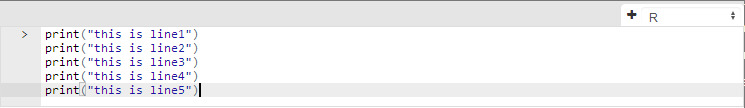
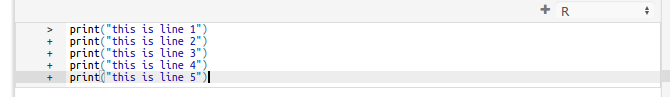
Created 1.4 GUI and whats new doc

Changed region(s): [[0.0, 0.0, 1.0, 1.0]]

diff --git a/_layouts/default.html b/_layouts/default.html
@@ -36,8 +36,11 @@
 						<li class="dropdown">
 							<a href="#" class="dropdown-toggle" data-toggle="dropdown" role="button" aria-haspopup="true" aria-expanded="false">Documentation<span class="caret"></span></a>
 							<ul class="dropdown-menu">
-								<li><a href="/rcloud/doc/1.3/whatsnew/doc.html">What's New</a></li>
-								<li><a href="/rcloud/doc/1.3/guidoc/doc.html">Current Documentation</a></li>
+								<li><a href="/rcloud/doc/1.4/whatsnew/doc.html">1.4 What's New</a></li>
+								<li><a href="/rcloud/doc/1.4/guidoc/doc.html">1.4 Current GUI Documentation</a></li>
+								<li role="separator" class="divider"></li>
+								<li><a href="/rcloud/doc/1.3/whatsnew/doc.html">1.3 What's New</a></li>
+								<li><a href="/rcloud/doc/1.3/guidoc/doc.html">1.3 GUI Documentation</a></li>
 							</ul>
 						</li>
 						<li><a target="_blank" href="http://github.com/att/rcloud">GitHub</a></li>

diff --git a/doc/1.4/guidoc/doc.md b/doc/1.4/guidoc/doc.md
@@ -7,7 +7,7 @@ layout: default
 
 # {{page.title}}
 
-Created: 2015-06-30
+Created: 2015-07-03
 
 ## Table of Contents
 
@@ -41,12 +41,14 @@ Created: 2015-06-30
         * [Versioning](#versioning)
             * [Version Tagging](#versiontagging)
             * [Reverting to a Previous Version](#revert)
-    * [Public and Private Notebooks](#publicandprivatenotebooks)
-        * [Toggle Private](#toggleprivate)
-        * [Toggle Public](#togglepublic)
+    * [Hidden Notebooks](#hiddennotebooks)
+        * [Toggle Hidden](#togglehidden)
+        * [Toggle Show](#toggleshow)
+    * [Protecting Your Notebooks](#protectingyournotebooks)
     * [Deleting Notebooks](#deletingnotebooks)
     * [Sharing Your Notebooks](#sharingyournotebooks)
         * [view.html](#view.html)
+            * [Hiding UI Elements](#hidinguielements)
         * [notebook.R](#notebook.R)
         * [mini.html](#mini.html)
         * [shiny.html](#shiny.html)
@@ -59,17 +61,22 @@ Created: 2015-06-30
 1. [Notebook Assets](#notebookassets)
     * [Data as an Asset](#dataasanasset)
     * [Uploading Assets](#uploadingasset)
-    * [Cascading Style Sheets](#usingcss)
+    * [Asset Links](#assetlinks)
+    * [Cascading Style Sheets (CSS)](#usingcss)
     * [JavaScript](#jsmode)
+    * [HTML](#htmlmode)
     * [Renaming Assets](#assetrename)
+    * [Binary Assets](#binaryassets)
+    * [Asset Size](#assetsize)
 1. [notebook.R URLs](#notebookrurls)
 1. [Search](#search)
     * [Complex Searches](#complexsearches)
 1. [Settings](#settings)
     * [Show Command Prompt](#showcommandprompt)
     * [Show Terse Version Dates](#showterseversiondates)
-    * [Subscribe to Comments](#subscribetocomments)
+    * [Show Cell Numbers](#showcellnumbers)
     * [Extensions](#extensions)
+    * [New Notebook Prefixes](#newnotebookprefixes)
 1. [Comments](#comments)
     * [Editing Comments](#editingcomments)
     * [Deleting Comments](#deletingcomments)
@@ -326,17 +333,23 @@ To insert a markdown cell above, click the ![INSERT1](img/addcell.png) icon. To 
 
 The run-state of each cell is displayed via an icon in between the gutter and cell name:
 
-![opencircle](img/opencircle.png): Cell has not been run
+![opencircle](img/opencircle.png): The cell has not been run.
 
-![bluearrow](img/bluearrow.png): Cell is scheduled to be run
+![bluearrow](img/bluearrow.png): The cell is queued to be run.
 
-![runningcircle](img/runningcircle.png): Cell is running
+![runningquestion1](img/scheduldedquestion.png): The cell is queued to be run, but the code was modified after execution was initiated.
 
-![greencircle](img/greencircle.png): Cell has run successfully
+![runningcircle](img/runningcircle.png): The cell is running.
 
-![exclaim](img/exclaim.png): Cell ran but had errors
+![runningquestion2](img/runningquestion.png): The cell is running, but the code was modified after execution was initiated.
 
-![splatcircle](img/splatcircle.png): Cell's run was cancelled
+![greencircle](img/greencircle.png): The cell ran successfully.
+
+![ready](img/ready.png): The cell ran successfully, but the output isn't synced with the code in the cell (i.e. the code was modified after execution was initiated).
+
+![exclaim](img/exclaim.png): The cell ran but had errors.
+
+![splatcircle](img/splatcircle.png): The cell's run was cancelled.
 
 [Top](#TOP)
 
@@ -344,11 +357,11 @@ The run-state of each cell is displayed via an icon in between the gutter and ce
 
 ## Stopping Cell Execution
 
-When you run a notebook, you can prevent scheduled cells from running by pressing the stop button, located in the header at the top of the screen:
+When you run a notebook, you can stop running cells and prevent queued cells from running by pressing the stop button, located in the header at the top of the screen:
 
 ![nonpreemptivestop](img/stop.png)
 
-Note that this will not interrupt currently running cells. (![runningcircle](img/runningcircle.png)). It will only prevent scheduled cells from running.
+This ends an interrupt to the R process and terminates execution if possible.
 
 [Top](#top)
 
@@ -402,7 +415,10 @@ To create a new, blank notebook, click the + sign at the right of the Notebooks 
 
 RCloud will automatically choose a title for your new notebook, Notebook N, where N is the next available number among your notebooks. To give your notebook a more meaningful title, click on the [title in the header bar](#notebooktitle).
 
+To change the default name of new notebooks, see the [New Notebook Prefixes](#newnotebookprefixes) sub-section of the Settings section.
+
 [Top](#TOP)
+
 
 <a name="runninganotebook"></a>
 
@@ -496,27 +512,57 @@ Should you decide that a previous version of your notebook is the "best" version
 
 [Top](#TOP)
 
-<a name="publicandprivatenotebooks"></a>
+<a name="hiddennotebooks"></a>
 
-### Public and Private Notebooks
+### Hidden Notebooks
 
-By default, all RCloud notebooks are public and therefore visible to all RCloud users. If you'd like to toggle the public/private flag on a notebook, hover over the name of your notebook on the left sidebar and click the eye icon. Note that private notebook titles are grayed out for owners and invisible to other users.
+By default, all RCloud notebooks are visible to all RCloud users. If you'd like to toggle the Show/Hide flag on a notebook, hover over the name of your notebook on the left sidebar and click the eye icon. Note that hidden notebook titles are grayed out for owners and invisible to other users.
 
-[Top](#TOP)
-
-<a name="toggleprivate"></a>
-
-#### Toggle Private
-
-Clicking the ![PRIVATENOTEBOOK](img/privatenotebook.png) icon will make your notebook private.
+Hidden notebooks are only invisible within the RCloud interface. Hidden notebooks are still visible within the gists stored in your GitHub instance.
 
 [Top](#TOP)
 
-<a name="togglepublic"></a>
+<a name="togglehidden"></a>
 
-#### Toggle Public
+#### Toggle Hidden
 
-Clicking the ![PUBLICNOTEBOOK](img/publicnotebook.png) icon will make your notebook public.
+Clicking the ![PRIVATENOTEBOOK](img/privatenotebook.png) icon will hide your notebook from other RCloud users.
+
+[Top](#TOP)
+
+<a name="toggleshow"></a>
+
+#### Toggle Show
+
+Clicking the ![PUBLICNOTEBOOK](img/publicnotebook.png) icon will make your notebook readable by other RCloud users.
+
+[Top](#TOP)
+
+<a name="protectingyournotebooks"></a>
+
+### Protecting Your Notebooks
+
+Protected notebooks are readable only by the owner and (optionally) a select group of users and will not show up in search results (although previously unprotected versions might).
+
+View or modify notebook protection by clicking the notebook "info" button next to the notebook name in the notebooks tree:
+
+![notebookinfo](img/notebookinfo.png)
+
+If you own the notebook, click the "no group" link (or a group name if one exists):
+
+![protectiondialog](img/nogroup.png)
+
+This opens the notebook protection dialog:
+
+![protectiondialog](img/notebookperms.png)
+
+Here, you can assign the notebook to any group you are a member of or make it entirely private (readable only by you).
+
+Use the second tab of the protection dialog to create/rename groups and/or assign other users as administrators/members of groups you administrate.
+
+![protectiondialog2](img/groupman.png)
+
+Note that, unlike a hidden notebook, protected notebooks are not readable by anyone without permission, even within your GitHub instance.
 
 [Top](#TOP)
 
@@ -553,6 +599,12 @@ Note that if you have a tagged version of your notebook currently loaded, where 
 ##### view.html
 
 This is the simplest method. This will create a link that will allow someone to see the notebook code and execute the notebook within the RCloud IDE. Users who do not own the notebook will see the play ![HEADER_PLAY](img/header_play.png) and share ![HEADER_EDIT](img/header_edit.png) icons in the header. Clicking the play icon will execute all cells in the notebook. Clicking the edit icon will return to the normal header, allowing a user to fork the notebook, etc.
+
+<a name="hidinguielements"></a>
+
+###### Hiding UI Elements
+
+To hide _all_ UI elements, add `&quiet=1` to the URL. Note that this works only with view.html.
 
 [Top](#TOP)
 
@@ -694,9 +746,35 @@ In addition to manually entering asset text, you can also drag and drop files in
 
 [Top](#TOP)
 
+<a name="assetlinks"></a>
+
+## Assets Links
+
+RCloud automatically generates asset links and displays them in the lower left-hand corner of the Assets panel. To copy the URL, right-click on it.
+
+![ASSETLINK](img/assetlink.png)
+
+[Top](#TOP)
+
+<a name="binaryassets"></a>
+
+## Binary Assets
+
+Assets can be binary (e.g. an image). RCloud auto-detects the content format and transparently encodes and decodes using base-64 encoding. When possible, the content is displayed in its native format in the asset panel.
+
+[Top](#TOP)
+
+<a name="assetsize"></a>
+
+## Asset Size
+
+Assets are limited to 750KB each.
+
+[Top](#TOP)
+
 <a name="usingcss"></a>
 
-## Using CSS
+## Cascading Style Sheets (CSS)
 
 Assets can contain Cascading Style Sheet (CSS) formatting information. This changes the way information is presented when your notebook is executed. For example, here is a bit of CSS that defines a paragraph style:
 
@@ -730,6 +808,16 @@ Note that you must reload your notebook to apply the CSS.
 Assets can also contain JavaScript. When editing JavaScript (files must have the .js extension), RCloud automatically uses a JavaScript editing mode, which has built-in syntax checking.
 
 ![JSMODE](img/jsmode.png)
+
+[Top](#TOP)
+
+<a name="htmlmode"></a>
+
+## HTML Mode
+
+When editing HTML (files must have the .html or .htm extension), RCloud automatically uses an HTML editing mode, which has built-in syntax checking and tag completion.
+
+![HTMLMODE](img/htmlmode.png)
 
 [Top](#TOP)
 
@@ -840,6 +928,16 @@ This setting toggles the appearance of the default prompt cell that appears at t
 
 This controls how RCloud displays dates when viewing notebook versions. When selected, RCloud will display dates and times only when they're different from the version before it.
 
+[Top](#TOP)
+
+<a name="showcellnumbers"></a>
+
+## Show Cell Numbers
+
+Toggles "Cell 1," "Cell 2," etc. in the cells panel.
+
+[Top](#TOP)
+
 <a name="extensions"></a>
 
 ## Extensions
@@ -850,15 +948,17 @@ You can enable and disable extensions using the "Enable Extensions" and "Disable
 
 Enter a list of extensions, comma delimited, and press enter. You will then have to reload the page. 
 
-![settings](img/settings.png)
-
 [Top](#TOP)
 
-<a name="subscribetocomments"></a>
+<a name="newnotebookprefixes"></a>
 
-## Subscribe to Comments
+### New Notebook Prefixes
 
-When checked, RCloud will send an email whenever someone leaves a [comment](#comments) about your notebook.
+Use the New Notebook Prefix setting to change how RCloud names [new notebooks](#creatinganotebook). 
+
+Suppose you were working on a project, Foo. You might choose "Foo " for your new notebook prefix. New notebooks would be named "Foo 1," "Foo 2," and so on.
+
+You could also include a folder. RCloud would then place new notebooks within that folder in the notebook tree. For example, you may choose to make "Foo/Notebook " your new notebook prefix name. RCloud would create new notebooks "Foo/Notebook 1," "Foo/Notebook 2," and so on.
 
 [Top](#TOP)
 

diff --git a/doc/1.4/whatsnew/doc.md b/doc/1.4/whatsnew/doc.md
@@ -1,5 +1,5 @@
 ---
-title: RCloud&#58; 1.4 What's New!
+title: RCloud&#58; 1.4 What's New
 layout: default
 ---
 
@@ -7,7 +7,7 @@ layout: default
 
 # {{page.title}}
 
-2015-06-30
+Created: 2015-07-03
 
 ## Table of Contents
 
@@ -21,7 +21,6 @@ layout: default
 1. [GUI Enhancements](#gui)
   * [Toggle Results](#toggleresults)
   * [Hiding UI Elements](#hideuielements)
-  * [Folders](#folders)
   * [Cell States](#cellstates)
   * [Multi-Line Command Input](#multilinecommandinput)
   * [HTML Syntax](#htmlsyntax)
@@ -41,21 +40,25 @@ layout: default
 
 ### Protected Notebooks
 
-Protected notebooks are viewable only by the owner and (optionally) a select group of users and will not show up in search results (although previously unprotected versions might).
+Protected notebooks are readable only by the owner and (optionally) a select group of users and will not show up in search results (although previously unprotected versions might).
 
 View or modify notebook protection by clicking the notebook "info" button next to the notebook name in the notebooks tree:
 
 ![notebookinfo](img/notebookinfo.png)
 
-If you own the notebook, click the link to open the notebook protection dialog.
+If you own the notebook, click the "no group" link (or a group name if one exists):
 
-![protectiondialog](img/protectiondialog.png)
+![protectiondialog](img/nogroup.png)
 
-Here, you can assign the notebook to any group you are a member of or make it entirely private (viewable only by you).
+This opens the notebook protection dialog:
+
+![protectiondialog](img/notebookperms.png)
+
+Here, you can assign the notebook to any group you are a member of or make it entirely private (readable only by you).
 
 Use the second tab of the protection dialog to create/rename groups and/or assign other users as administrators/members of groups you administrate.
 
-![protectiondialog2](img/protectiondialog2.png)
+![protectiondialog2](img/groupman.png)
 
 [Top](#top)
 
@@ -65,7 +68,7 @@ Use the second tab of the protection dialog to create/rename groups and/or assig
 
 View notebooks stored on other git/GitHub-based RCloud instances by configuring RCloud with multiple `gist.source` names. Specifying a name in a notebook URL (`&source=name`) loads the notebook from another instance. Search has an option to search all sources.
 
-In this release, all notebooks are displayed in the same notebook tree. Non-local notebooks are displayed in green and are read-only. You can, however, fork and star non-local notebooks. Commenting, however, is disabled for non-local notebooks.
+In this release, all notebooks are displayed in the same notebook tree. Non-local notebooks are displayed in green and are read-only. You can, however, fork and star non-local notebooks. Commenting is disabled for non-local notebooks.
 
 [Top](#top)
 
@@ -74,6 +77,8 @@ In this release, all notebooks are displayed in the same notebook tree. Non-loca
 ### Cell Execution
 
 Clicking the stop button in the header bar sends an interrupt to the R process and terminates execution if possible.
+
+![stop](img/stop.png)
 
 [Top](#top)
 
@@ -117,17 +122,7 @@ When cell output is long and it's difficult to find the next cell, you can toggl
 
 ### Hiding UI Elements
 
-Use `&quiet=1` in notebook URLs to hide all UI elements, including cell-status.
-
-[Top](#top)
-
-<a name="folders" />
-
-### Folders
-
-To rename notebook folders, click once on a notebook folder to open it. Click on the name a second time to edit the name of any folder in the string.
-
-To fork a notebook folder, click once on a notebook folder to open it and display the fork command. Press Ctrl/Cmd-Enter to fork a notebook folder while editing the name.
+Use `&quiet=1` in view.html notebook URLs to hide all UI elements, including cell-status.
 
 [Top](#top)
 
@@ -156,6 +151,8 @@ This indicates that the cell needs to run again for the modified code and displa
 ### Multi-Line Command Input
 
 Multi-line command input is indicated with a `+` to emulate command-line R.
+
+![multilinecommandinput](img/multiline.png)
 
 [Top](#top)
 
